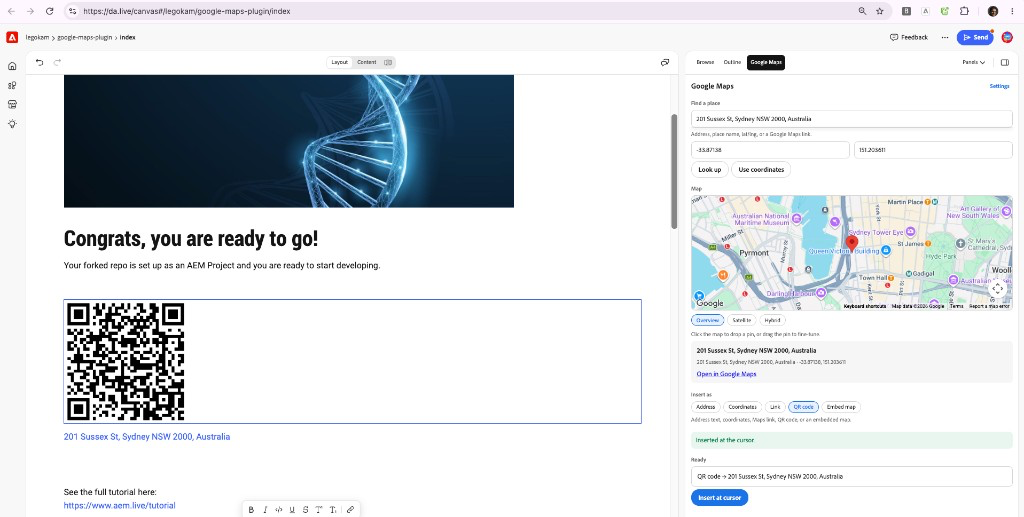
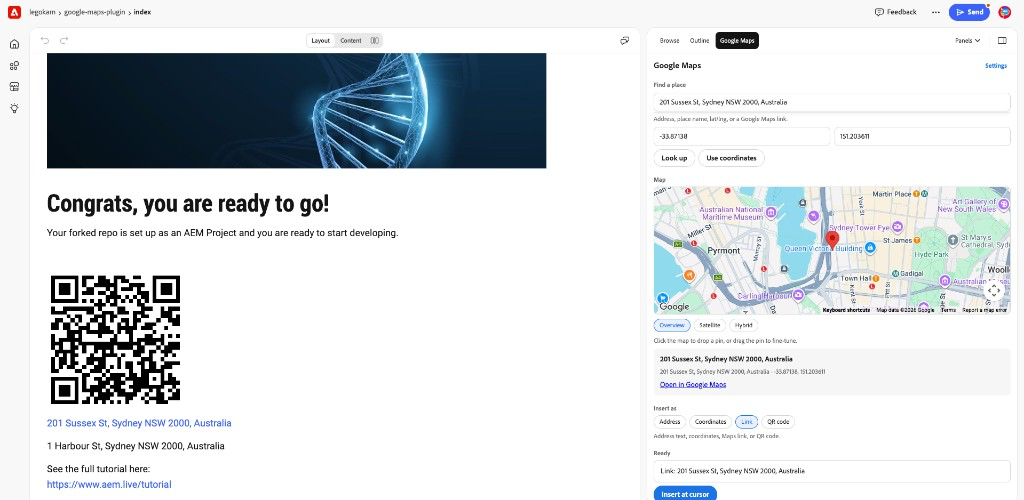
Refactor Google Maps plugin to remove embed map functionality. Updated README and code to reflect changes in available formats for insertion, ensuring clarity on API key requirements and usage. Improved user guidance by simplifying instructions related to map interactions and API settings.

diff --git a/README.md b/README.md
@@ -4,7 +4,7 @@ An Edge Delivery Services / Experience Workspace plugin that lets authors find a
 
 Plugin files live in [`tools/google-maps/`](tools/google-maps/).
 
-![Google Maps panel with pin, layers, and QR code inserted into the page](docs/readme/plugin-panel.png)
+![Google Maps panel with a dropped pin and Link ready to Insert at cursor](docs/readme/plugin-panel.png)
 
 ## Environments
 
@@ -70,10 +70,32 @@ Open **Panels → Extensions → Google Maps**.
 
 ## Configure Google Maps
 
+### 1. Google Cloud API key
+
 1. In [Google Cloud Console](https://console.cloud.google.com/) create (or reuse) a project with billing enabled.
-2. Enable **Maps JavaScript API**, **Places API**, and **Geocoding API**.
-3. Create an API key. Restrict it with HTTP referrers that include `https://da.live/*`, your `*.aem.page` / `*.aem.live` hosts, and `http://localhost:3000/*` for local work.
-4. In the plugin, open **Settings**, paste the key, **Test key**, then **Save**.
+2. Enable **Maps JavaScript API**, **Places API (New)**, and **Geocoding API**.
+3. Create an API key (APIs & Services → Credentials → Create credentials → API key), then open **Edit API key**.
+4. Under **API restrictions**, choose **Restrict key** and select at least:
+   - Geocoding API
+   - Maps JavaScript API
+   - Places API (New)
+5. Under **Application restrictions**, choose **Websites** and add HTTP referrers such as:
+
+   | Website restriction |
+   | ------------------- |
+   | `https://da.live/*` |
+   | `*.preview.da.live/*` |
+   | `http://localhost:3000/*` |
+   | `https://*.aem.live/*` |
+   | `https://*.aem.page/*` |
+
+   Add your site’s preview host if needed (for example `https://main--google-maps-plugin--legokam.preview.da.live/`). Changes can take up to a few minutes.
+
+![Google Cloud Console: Edit API key with website restrictions for da.live, AEM, and localhost](docs/readme/api-key-setup.png)
+
+### 2. Save the key for the organisation
+
+In the plugin, open **Settings**, paste the key, **Test key**, then **Save**.
 
 ![Plugin Settings: Google Maps API key with a successful Test key](docs/readme/settings.png)
 
@@ -87,7 +109,7 @@ You can also edit that sheet directly at [da.live/config#/legokam/](https://da.l
 
 ![Organisation secrets sheet with google-maps.api-key](docs/readme/secrets.png)
 
-**Security note:** anyone who can read the org config can read the API key. Prefer HTTP-referrer restrictions on the key.
+**Security note:** anyone who can read the org config can read the API key. Keep **Websites** referrer restrictions on the key as shown above.
 
 If the config editor tab was already open when you saved from the plugin, reload it before pressing Save there — a stale empty sheet can overwrite the plugin’s rows.
 
